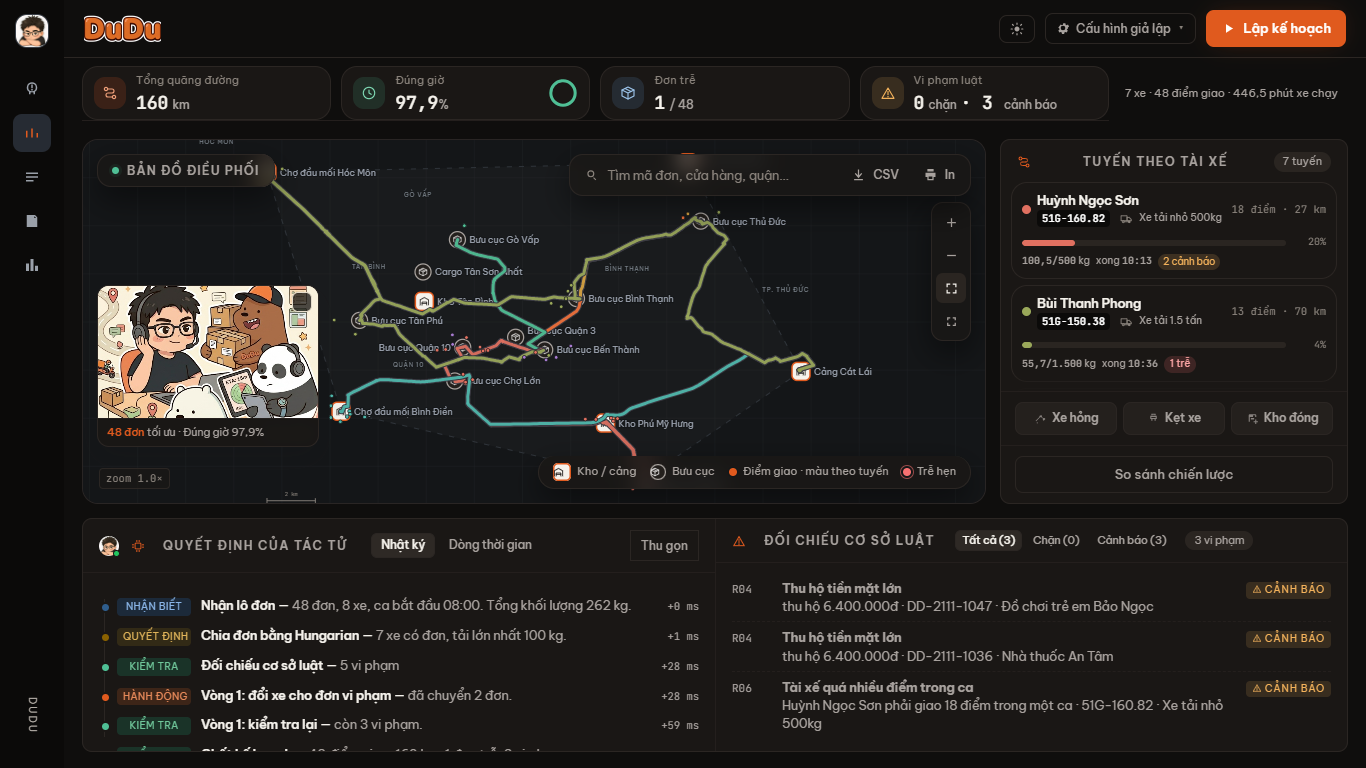
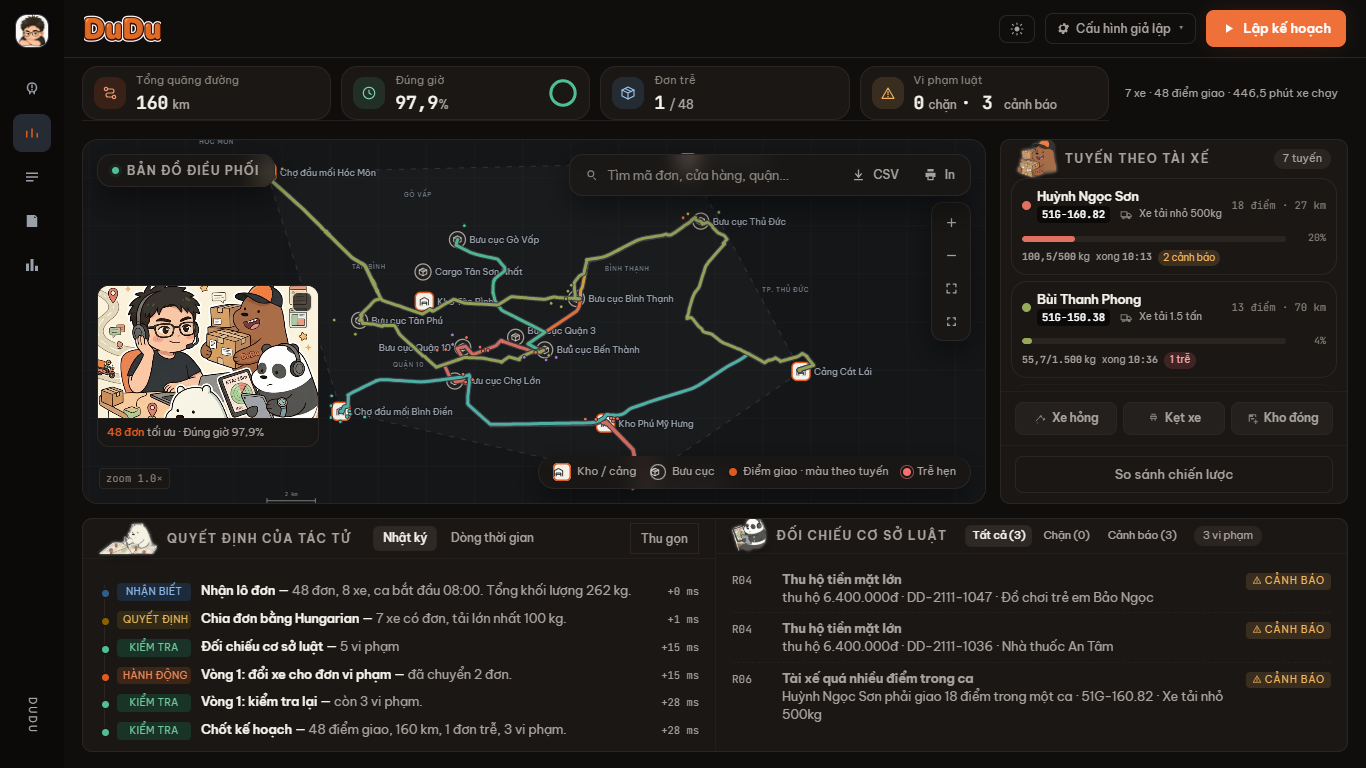
web: 3 gau mascot o header panel, can trai tieu de tuyen, toi uu anh header va va dong cuoi nhat ky bi cat

diff --git a/web/index.html b/web/index.html
@@ -202,7 +202,8 @@
 
       <aside class="panel side-panel">
         <div class="side-head">
-          <span class="ic panel-ico" style="--icon:url('/assets/icons/route.svg')"></span><h2>Tuyến theo tài xế</h2>
+          <img class="panel-mascot" src="/assets/stickers/gau-nau-header.png" alt=""
+               title="Gấu Nâu — Phụ trách phân bổ đơn &amp; đội tài xế" /><h2>Tuyến theo tài xế</h2>
           <span id="route-count" class="pill">0 tuyến</span>
         </div>
 
@@ -233,8 +234,8 @@
     <footer class="panel log-panel">
       <div class="log-col">
         <div class="panel-head">
-          <span class="agent-badge" aria-hidden="true"><img src="/assets/avatar.jpg" alt="" /><i></i></span>
-          <span class="ic panel-ico" style="--icon:url('/assets/icons/chip.svg')"></span>
+          <img class="panel-mascot" src="/assets/stickers/gau-trang-header.png" alt=""
+               title="Gấu Trắng — Tác tử tối ưu tuyến đường &amp; suy luận" />
           <h2>Quyết định của tác tử</h2>
           <div class="tabs" role="tablist">
             <button class="tab is-active" data-tab="steps" role="tab" aria-selected="true">Nhật ký</button>
@@ -247,7 +248,8 @@
       </div>
       <div class="log-col">
         <div class="panel-head">
-          <span class="ic panel-ico" style="--icon:url('/assets/icons/warning.svg')"></span><h2>Đối chiếu cơ sở luật</h2>
+          <img class="panel-mascot" src="/assets/stickers/gau-truc-header.png" alt=""
+               title="Gấu Trúc — Thanh tra ETA &amp; đối chiếu 12 cơ sở luật" /><h2>Đối chiếu cơ sở luật</h2>
           <div class="tabs" id="rule-filters" role="group" aria-label="Lọc mức luật">
             <button class="tab is-active" data-filter="all">Tất cả</button>
             <button class="tab" data-filter="chan">Chặn</button>
@@ -325,6 +327,7 @@
 <script src="/assets/app.js"></script>
 </body>
 </html>
+
 
 
 

diff --git a/web/assets/app.css b/web/assets/app.css
@@ -1818,3 +1818,41 @@ body, .panel, .kpi-card, .route, .btn, .tab, .glass, .glass-pill, .badge-late, .
 .hub-glyph .hub-label { font-size: 9px; stroke-width: 2.5px; }
 .lg-badge--depot svg { transform: translateY(-0.4px); }
 .hub-glyph { shape-rendering: geometricPrecision; }
+
+/* ============ v19: gấu mascot ở header 3 panel ============ */
+
+.panel-head, .side-head { overflow: visible; }
+
+.side-head {
+  justify-content: flex-start;
+  gap: 8px;
+  padding: 6px 16px 4px;
+}
+.side-head h2 { margin-right: auto; }
+.side-head .pill { margin-left: auto; }
+
+.panel-head { padding: 6px 16px; gap: 10px; }
+
+.panel-mascot {
+  height: 38px;
+  width: auto;
+  max-width: 58px;
+  object-fit: contain;
+  flex-shrink: 0;
+  margin-top: -6px;
+  margin-bottom: -6px;
+  cursor: pointer;
+  transition: transform .2s ease;
+  filter: drop-shadow(0 1px 2px rgba(28, 25, 23, .12));
+}
+.panel-mascot:hover { transform: scale(1.1) rotate(-2deg); }
+[data-theme="dark"] .panel-mascot {
+  filter: drop-shadow(0 0 1.5px rgba(250, 245, 232, .55)) drop-shadow(0 2px 4px rgba(0, 0, 0, .45));
+}
+
+/* dòng cuối panel Quyết định không bị cắt lẹm */
+.steps li { padding: 4px 0; }
+.steps { padding-bottom: 20px; }
+.steps::before { bottom: 20px; }
+.log-panel { --steps-pad: 20px; }
+.panel-head { padding: 4px 16px; }

diff --git a/tests/test_frontend_assets.py b/tests/test_frontend_assets.py
@@ -34,6 +34,9 @@ REQUIRED_FILES = [
     "assets/stickers/gau-nau.png",
     "assets/stickers/gau-truc.png",
     "assets/stickers/gau-trang.png",
+    "assets/stickers/gau-nau-header.png",
+    "assets/stickers/gau-trang-header.png",
+    "assets/stickers/gau-truc-header.png",
     "assets/markers/xe-hong.svg",
     "assets/markers/ket-xe.svg",
     "assets/markers/kho-dong.svg",
@@ -93,6 +96,17 @@ class TestFrontendAssets(unittest.TestCase):
         self.assertIn("mapPixelScale", js)
         self.assertIn("placeHubLabels", js)
 
+    def test_panel_mascots_wired(self) -> None:
+        # 3 panel chính phải dùng ảnh gấu ở header, kèm tooltip đúng nội dung
+        html = (WEB / "index.html").read_text(encoding="utf-8")
+        self.assertEqual(html.count('class="panel-mascot"'), 3)
+        self.assertIn("Gấu Nâu — Phụ trách phân bổ đơn", html)
+        self.assertIn("Gấu Trắng — Tác tử tối ưu tuyến đường", html)
+        self.assertIn("Gấu Trúc — Thanh tra ETA", html)
+        css = (WEB / "assets" / "app.css").read_text(encoding="utf-8")
+        self.assertIn(".panel-mascot", css)
+        self.assertIn("max-width: 58px", css)
+
     def test_mobile_nav_present(self) -> None:
         html = (WEB / "index.html").read_text(encoding="utf-8")
         self.assertIn('class="mobile-nav"', html)
@@ -101,6 +115,7 @@ class TestFrontendAssets(unittest.TestCase):
 
 if __name__ == "__main__":
     unittest.main()
+
 
 
 

diff --git a/docs/DESIGN.md b/docs/DESIGN.md
@@ -546,3 +546,30 @@ nhỏ dần. Icon kho còn lệch 0,23px vì bbox path `warehouse` lệch 0,5 đ
 | Nhãn lệch tâm dọc | 0px | 0px | 0px |
 
 Không tràn ngang, 0 request 404, 0 lỗi JS. Ảnh `giao-dien-zoom.png` chụp ở zoom 6×.
+
+## 24. Bản v19 — gấu mascot ở header 3 panel
+
+| Panel | Ảnh | Tooltip |
+|---|---|---|
+| Tuyến theo tài xế | `gau-nau-header.png` | "Gấu Nâu — Phụ trách phân bổ đơn & đội tài xế" |
+| Quyết định của tác tử | `gau-trang-header.png` (thay cả avatar mini + icon chip) | "Gấu Trắng — Tác tử tối ưu tuyến đường & suy luận" |
+| Đối chiếu cơ sở luật | `gau-truc-header.png` (thay icon tam giác) | "Gấu Trúc — Thanh tra ETA & đối chiếu 12 cơ sở luật" |
+
+Kỹ thuật:
+
+- `height: 38px; width: auto; max-width: 58px; object-fit: contain; flex-shrink: 0`
+  + `margin-block: -6px` để ảnh "nổi" mà **không phình header**.
+- Header cao sau khi đổi: **36 / 40 / 35px** (trước là ~39–40px) → danh sách tài xế và nhật ký
+  không bị lấn chỗ.
+- Tiêu đề `TUYẾN THEO TÀI XẾ` chuyển sang **căn trái**, sát bên phải Gấu Nâu (khoảng cách 8px),
+  pill `7 tuyến` neo phải (cách mép 17px).
+- Hover: `scale(1.1) rotate(-2deg)` trong 200ms; light dùng shadow nhẹ, dark thêm viền sáng
+  `drop-shadow(0 0 1.5px rgba(250,245,232,.55))` + bóng đổ để nét viền tối không chìm vào nền
+  `#1A1715`.
+- Ảnh gốc 0,8–1 MB được cắt viền trong suốt + thu về **cao 114px (3×)**: 23/31/21 KB, vẫn nét
+  trên màn retina.
+- Dòng cuối `Chốt kế hoạch` không còn bị cắt: `li` padding 4px, `.steps` padding-bottom 20px —
+  đo được dòng cuối cách đáy khung 7px, `clipped = false`.
+
+Kiểm chứng 1366×768 và 1920×1080, light + dark: ảnh load đủ 3, cao đúng 38px, không tràn
+(`scrollWidth` = viewport), 0 request 404, 0 lỗi JS; hover đo được `matrix(1.0993, -0.0384…)`.
